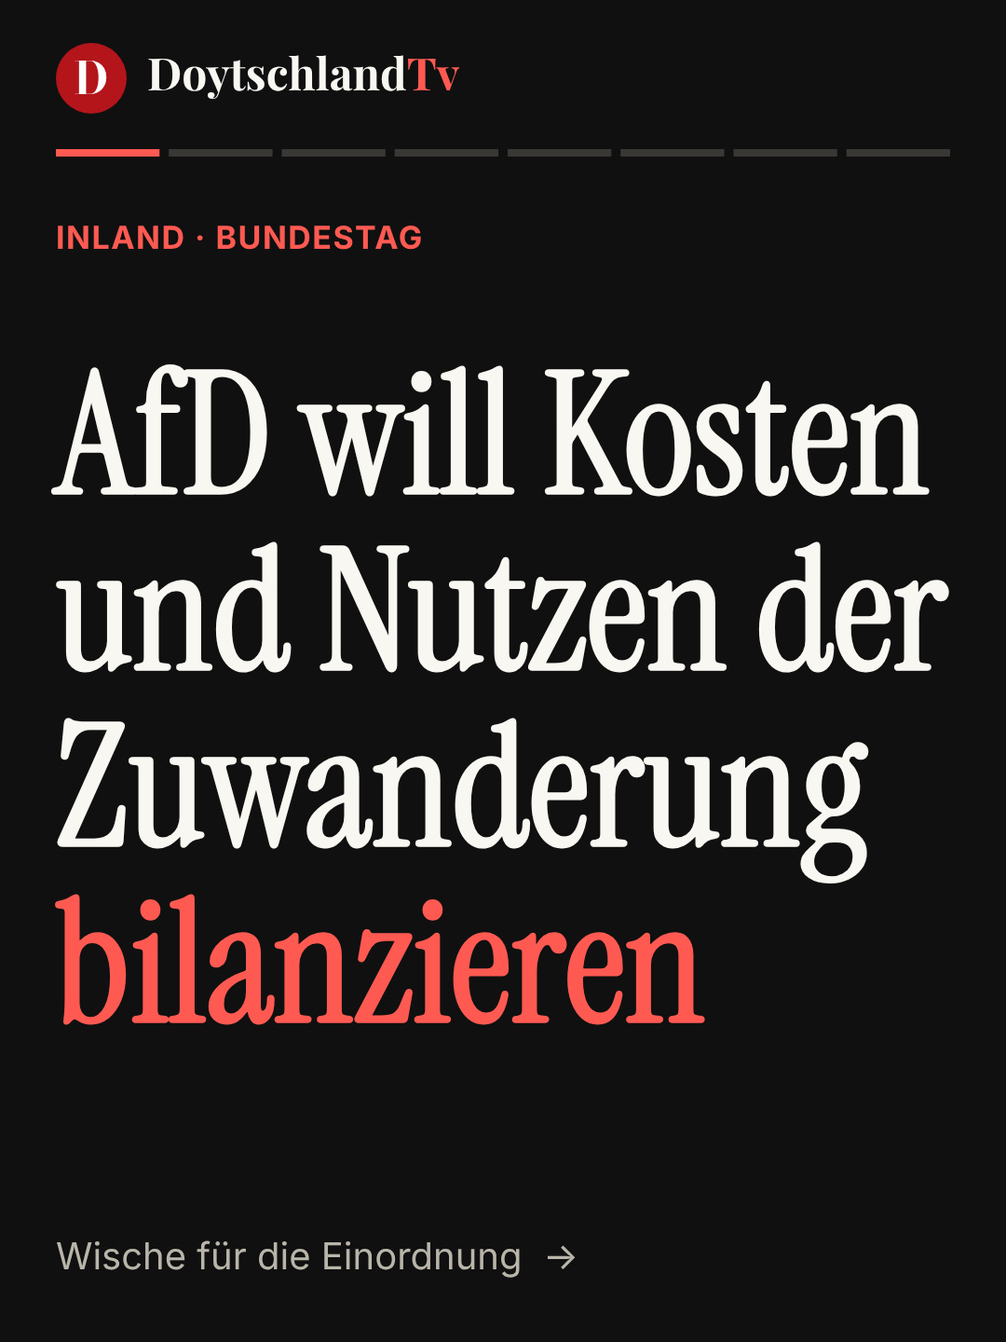
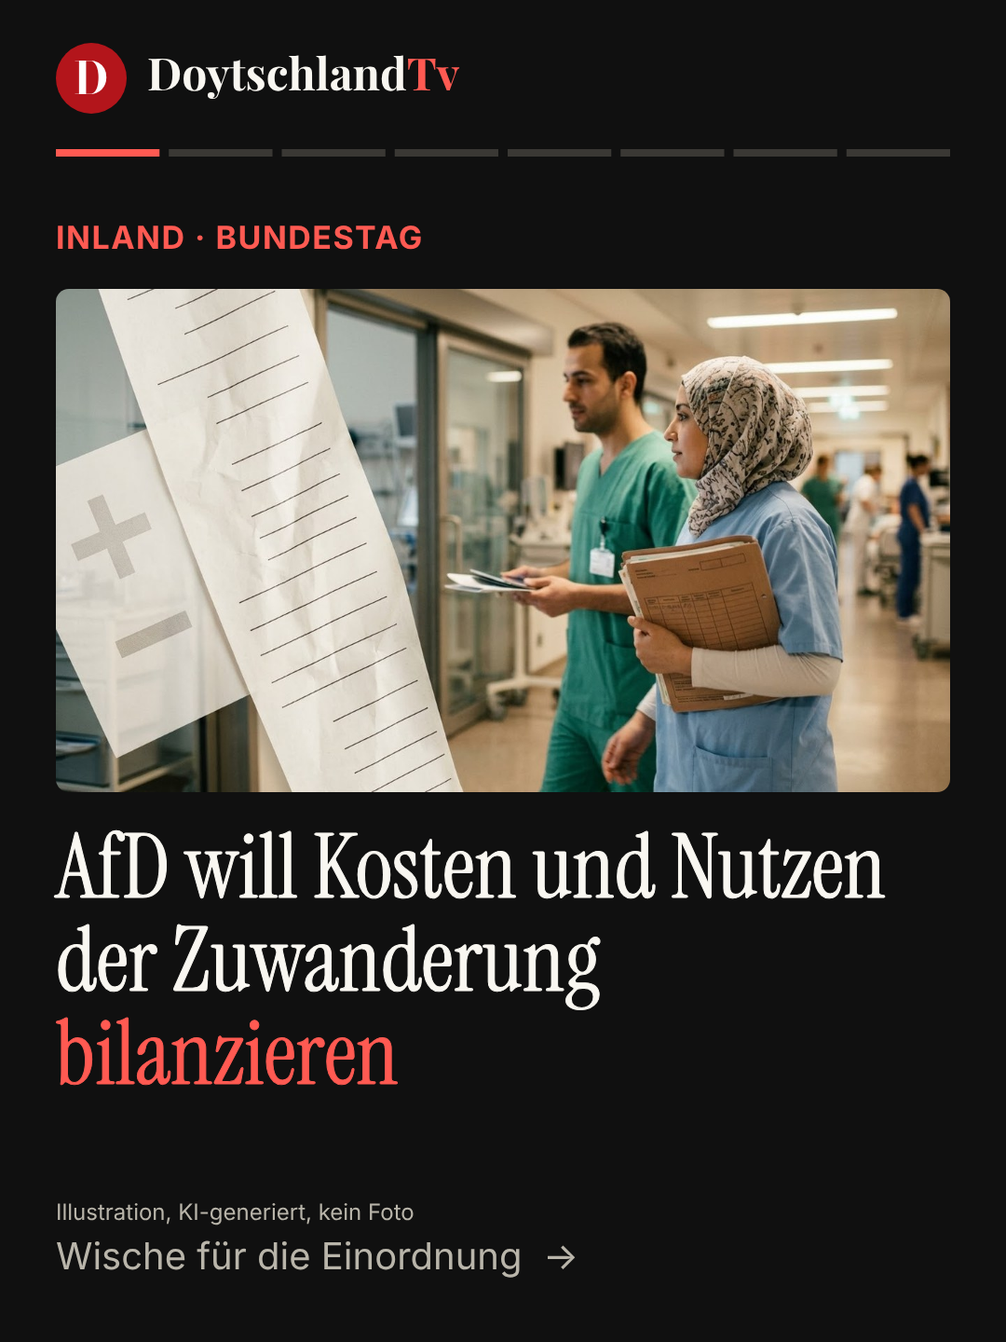
Migrations-Karussell: Titelbild
Claude-Session: https://claude.ai/code/session_01HADCkE2LZJHKQCUdz9XwMJ

diff --git a/beitrag/2026-10-19-afd-will-kosten-und-nutzen-der-zuwanderung-bilanzieren.html b/beitrag/2026-10-19-afd-will-kosten-und-nutzen-der-zuwanderung-bilanzieren.html
@@ -5,10 +5,10 @@
 <link rel="canonical" href="https://doytschtv.de/beitrag/2026-10-19-afd-will-kosten-und-nutzen-der-zuwanderung-bilanzieren.html">
 <meta name="robots" content="index,follow,max-image-preview:large">
 <meta property="og:type" content="article"><meta property="og:site_name" content="DoytschlandTv"><meta property="og:locale" content="de_DE">
-<meta property="og:title" content="AfD will Kosten und Nutzen der Zuwanderung bilanzieren"><meta property="og:description" content="Der Bundestag beriet am 15. Oktober erstmals den AfD-Antrag 21/8549. Er fordert ein Gesetz für regelmäßige, wissenschaftliche Bewertungen der Folgen von…"><meta property="og:url" content="https://doytschtv.de/beitrag/2026-10-19-afd-will-kosten-und-nutzen-der-zuwanderung-bilanzieren.html"><meta property="og:image" content="https://doytschtv.de/og-image.png">
-<meta name="twitter:card" content="summary_large_image"><meta name="twitter:title" content="AfD will Kosten und Nutzen der Zuwanderung bilanzieren"><meta name="twitter:description" content="Der Bundestag beriet am 15. Oktober erstmals den AfD-Antrag 21/8549. Er fordert ein Gesetz für regelmäßige, wissenschaftliche Bewertungen der Folgen von…"><meta name="twitter:image" content="https://doytschtv.de/og-image.png">
+<meta property="og:title" content="AfD will Kosten und Nutzen der Zuwanderung bilanzieren"><meta property="og:description" content="Der Bundestag beriet am 15. Oktober erstmals den AfD-Antrag 21/8549. Er fordert ein Gesetz für regelmäßige, wissenschaftliche Bewertungen der Folgen von…"><meta property="og:url" content="https://doytschtv.de/beitrag/2026-10-19-afd-will-kosten-und-nutzen-der-zuwanderung-bilanzieren.html"><meta property="og:image" content="https://doytschtv.de/titel-migration.jpg">
+<meta name="twitter:card" content="summary_large_image"><meta name="twitter:title" content="AfD will Kosten und Nutzen der Zuwanderung bilanzieren"><meta name="twitter:description" content="Der Bundestag beriet am 15. Oktober erstmals den AfD-Antrag 21/8549. Er fordert ein Gesetz für regelmäßige, wissenschaftliche Bewertungen der Folgen von…"><meta name="twitter:image" content="https://doytschtv.de/titel-migration.jpg">
 <meta name="theme-color" content="#0b0b10"><link rel="apple-touch-icon" href="/favicon.png">
-<script type="application/ld+json">{"@context": "https://schema.org", "@type": "NewsArticle", "headline": "AfD will Kosten und Nutzen der Zuwanderung bilanzieren", "description": "Der Bundestag beriet am 15. Oktober erstmals den AfD-Antrag 21/8549. Er fordert ein Gesetz für regelmäßige, wissenschaftliche Bewertungen der Folgen von…", "datePublished": "2026-10-19", "dateModified": "2026-10-19", "inLanguage": "de", "mainEntityOfPage": "https://doytschtv.de/beitrag/2026-10-19-afd-will-kosten-und-nutzen-der-zuwanderung-bilanzieren.html", "image": ["https://doytschtv.de/og-image.png"], "author": {"@type": "Organization", "name": "DoytschlandTv", "url": "https://doytschtv.de/"}, "publisher": {"@type": "Organization", "name": "DoytschlandTv", "logo": {"@type": "ImageObject", "url": "https://doytschtv.de/favicon.png"}}, "articleSection": "Nachrichten", "keywords": ["doytschlandtv", "aktuell", "bundestag", "afd", "migration", "faktencheck", "einordnung", "nachrichten"]}</script>
+<script type="application/ld+json">{"@context": "https://schema.org", "@type": "NewsArticle", "headline": "AfD will Kosten und Nutzen der Zuwanderung bilanzieren", "description": "Der Bundestag beriet am 15. Oktober erstmals den AfD-Antrag 21/8549. Er fordert ein Gesetz für regelmäßige, wissenschaftliche Bewertungen der Folgen von…", "datePublished": "2026-10-19", "dateModified": "2026-10-19", "inLanguage": "de", "mainEntityOfPage": "https://doytschtv.de/beitrag/2026-10-19-afd-will-kosten-und-nutzen-der-zuwanderung-bilanzieren.html", "image": ["https://doytschtv.de/titel-migration.jpg"], "author": {"@type": "Organization", "name": "DoytschlandTv", "url": "https://doytschtv.de/"}, "publisher": {"@type": "Organization", "name": "DoytschlandTv", "logo": {"@type": "ImageObject", "url": "https://doytschtv.de/favicon.png"}}, "articleSection": "Nachrichten", "keywords": ["doytschlandtv", "aktuell", "bundestag", "afd", "migration", "faktencheck", "einordnung", "nachrichten"]}</script>
 <link rel="stylesheet" href="/fonts.css"><link rel="stylesheet" href="/styles.css"><link rel="stylesheet" href="/briefing.css">
 <style>:root{color-scheme:light}body{margin:0}</style><link rel="icon" type="image/png" href="/favicon.png"></head><body>
-<header class="nav"><div class="wrap"><a class="brand" href="/index.html"><span class="mk" aria-hidden="true">D</span><img class="lg-l" src="/logo.png" alt="DoytschlandTv" width="136" height="25"><img class="lg-d" src="/logo-dark.png" alt="DoytschlandTv" width="136" height="25"></a><ul><li><a href="/briefing.html">Briefing</a></li><li><a href="/nachrichten.html" class=on>Nachrichten</a></li><li><a href="/dossiers.html">Dossiers</a></li><li><a href="/meinungen.html">Meinungen</a></li><li><a href="/erklaert.html">Erklärt</a></li><li><a href="/ueber-uns.html">Über uns</a></li></ul><span class="nav-so"><a href="https://www.instagram.com/doytschlandtv/" target="_blank" rel="noopener" aria-label="DoytschlandTv auf Instagram"><svg viewBox="0 0 24 24" fill="none" stroke="currentColor" stroke-width="2" stroke-linecap="round" aria-hidden="true"><rect x="3" y="3" width="18" height="18" rx="5"/><circle cx="12" cy="12" r="4.2"/><circle cx="17.3" cy="6.7" r=".6" fill="currentColor"/></svg></a><a href="https://www.tiktok.com/@doytschlandtv" target="_blank" rel="noopener" aria-label="DoytschlandTv auf TikTok"><svg viewBox="0 0 24 24" fill="currentColor" aria-hidden="true"><path d="M16.6 5.8A4.3 4.3 0 0 1 15.5 3h-3.1v12.4a2.6 2.6 0 1 1-1.8-2.5V9.7a5.7 5.7 0 1 0 4.9 5.7V9a7.3 7.3 0 0 0 4.3 1.4V7.3a4.3 4.3 0 0 1-3.2-1.5z"/></svg></a></span></div></header><main><div class="wrap"><article class="kol"><p class="b-eyebrow">Nachrichten · Inland · Bundestag</p><h1 class="mk-h1">AfD will Kosten und Nutzen der Zuwanderung bilanzieren</h1><p class="mk-meta">19. Oktober 2026</p><h2>Der Antrag</h2><p><strong>Bilanz per Gesetz.</strong></p><p>Der Bundestag beriet am 15. Oktober erstmals den AfD-Antrag 21/8549. Er fordert ein Gesetz für regelmäßige, wissenschaftliche Bewertungen der Folgen von Migration für die Sozialsysteme, jährliche Berichte an den Bundestag und eine Studie nach dänischem Vorbild. Der Antrag ging in die Ausschüsse.</p><h2>Die Zahl in der Debatte</h2><p><strong>400 Mrd. Euro</strong> Migrationskosten für 2016 bis 2025 nannte der AfD-Abgeordnete Goßner, gestützt auf einen Beitrag in der Welt. Allein im Bundesanteil von 242,5 Mrd. Euro stecken rund 72,9 Mrd. für Fluchtursachenbekämpfung im Ausland.</p><h2>Behauptung und Fakt</h2><p><strong>Was die Zahl misst:</strong> Brutto-Ausgaben von Bund, Ländern und Kommunen für Flucht und Migration, über zehn Jahre. Teile werden laut Prüfung doppelt gezählt.</p><p><strong>Was nicht darin steckt:</strong> Steuern, Sozialbeiträge, Konsum und Wertschöpfung. Die Summe ist keine Nettobelastung.</p><h2>Die Studienlage</h2><p><strong>Je nach Gruppe und Methode</strong></p><p>Eine vielzitierte niederländische Studie (IZA, Dezember 2024) sieht Arbeitsmigranten im Plus und Asylmigranten am stärksten im Minus, die Ergebnisse hängen von der Zuordnung öffentlicher Ausgaben ab. Für Deutschland rechnet Martin Werding (Bochum) mit einer Entlastung der Staatsfinanzen, Raffelhüschen (2024) mit höherer impliziter Verschuldung.</p><h2>Der Arbeitsmarkt</h2><p><strong>3,4 Mio.</strong> mehr Menschen im erwerbsfähigen Alter lebten 2024 unter Ausländern als 2014, bei Deutschen sank die Zahl um rund 3,9 Millionen. Seit 2024 kam das Beschäftigungswachstum laut Bundesagentur für Arbeit ausschließlich von ausländischen Beschäftigten.</p><h2>Unsere Meinung</h2><p>Zahlen zu Kosten und Integration gehören auf den Tisch, vollständig und mit den Einnahmen. Aber wer Menschen nach ihrem Nutzen bilanziert, macht aus Rechten eine Rechnung. Die Würde des Menschen ist unantastbar, auch dann, wenn jemand dem Staat nichts einbringt.</p><h2>Was meinst du?</h2><p><strong>Sollte der Staat regelmäßig bilanzieren, was Zuwanderung kostet und einbringt?</strong></p><h2>Quellen</h2><ul><li>Deutscher Bundestag, 15.10.2026</li><li>Bundestag, 15.10.2026; BT-Drs. 21/6280 (laut Politfacts)</li><li>Politfacts, Realitätscheck zur 400-Milliarden-Rechnung</li><li>IZA DP 17569; Mediendienst Integration, Werding 2025</li><li>Bundesagentur für Arbeit, Presseinfo Nr. 25</li></ul><p><a href="/nachrichten.html">Alle Karussells ansehen ›</a></p><p class="mk-meta">Fakten sind mit Quellen belegt, Meinung ist als „Unsere Meinung“ gekennzeichnet.</p></article></div></main><footer><div class="wrap"><span>© DoytschlandTv</span><span><a href="/impressum.html">Impressum</a> · <a href="/datenschutz.html">Datenschutz</a></span></div></footer></body></html>
+<header class="nav"><div class="wrap"><a class="brand" href="/index.html"><span class="mk" aria-hidden="true">D</span><img class="lg-l" src="/logo.png" alt="DoytschlandTv" width="136" height="25"><img class="lg-d" src="/logo-dark.png" alt="DoytschlandTv" width="136" height="25"></a><ul><li><a href="/briefing.html">Briefing</a></li><li><a href="/nachrichten.html" class=on>Nachrichten</a></li><li><a href="/dossiers.html">Dossiers</a></li><li><a href="/meinungen.html">Meinungen</a></li><li><a href="/erklaert.html">Erklärt</a></li><li><a href="/ueber-uns.html">Über uns</a></li></ul><span class="nav-so"><a href="https://www.instagram.com/doytschlandtv/" target="_blank" rel="noopener" aria-label="DoytschlandTv auf Instagram"><svg viewBox="0 0 24 24" fill="none" stroke="currentColor" stroke-width="2" stroke-linecap="round" aria-hidden="true"><rect x="3" y="3" width="18" height="18" rx="5"/><circle cx="12" cy="12" r="4.2"/><circle cx="17.3" cy="6.7" r=".6" fill="currentColor"/></svg></a><a href="https://www.tiktok.com/@doytschlandtv" target="_blank" rel="noopener" aria-label="DoytschlandTv auf TikTok"><svg viewBox="0 0 24 24" fill="currentColor" aria-hidden="true"><path d="M16.6 5.8A4.3 4.3 0 0 1 15.5 3h-3.1v12.4a2.6 2.6 0 1 1-1.8-2.5V9.7a5.7 5.7 0 1 0 4.9 5.7V9a7.3 7.3 0 0 0 4.3 1.4V7.3a4.3 4.3 0 0 1-3.2-1.5z"/></svg></a></span></div></header><main><div class="wrap"><article class="kol"><p class="b-eyebrow">Nachrichten · Inland · Bundestag</p><h1 class="mk-h1">AfD will Kosten und Nutzen der Zuwanderung bilanzieren</h1><p class="mk-meta">19. Oktober 2026</p><figure style="margin:1rem 0"><img src="/titel-migration.jpg" alt="AfD will Kosten und Nutzen der Zuwanderung bilanzieren" style="width:100%;height:auto;border-radius:1rem" loading="lazy"><figcaption class="mk-meta">Illustration, KI-generiert, kein Foto</figcaption></figure><h2>Der Antrag</h2><p><strong>Bilanz per Gesetz.</strong></p><p>Der Bundestag beriet am 15. Oktober erstmals den AfD-Antrag 21/8549. Er fordert ein Gesetz für regelmäßige, wissenschaftliche Bewertungen der Folgen von Migration für die Sozialsysteme, jährliche Berichte an den Bundestag und eine Studie nach dänischem Vorbild. Der Antrag ging in die Ausschüsse.</p><h2>Die Zahl in der Debatte</h2><p><strong>400 Mrd. Euro</strong> Migrationskosten für 2016 bis 2025 nannte der AfD-Abgeordnete Goßner, gestützt auf einen Beitrag in der Welt. Allein im Bundesanteil von 242,5 Mrd. Euro stecken rund 72,9 Mrd. für Fluchtursachenbekämpfung im Ausland.</p><h2>Behauptung und Fakt</h2><p><strong>Was die Zahl misst:</strong> Brutto-Ausgaben von Bund, Ländern und Kommunen für Flucht und Migration, über zehn Jahre. Teile werden laut Prüfung doppelt gezählt.</p><p><strong>Was nicht darin steckt:</strong> Steuern, Sozialbeiträge, Konsum und Wertschöpfung. Die Summe ist keine Nettobelastung.</p><h2>Die Studienlage</h2><p><strong>Je nach Gruppe und Methode</strong></p><p>Eine vielzitierte niederländische Studie (IZA, Dezember 2024) sieht Arbeitsmigranten im Plus und Asylmigranten am stärksten im Minus, die Ergebnisse hängen von der Zuordnung öffentlicher Ausgaben ab. Für Deutschland rechnet Martin Werding (Bochum) mit einer Entlastung der Staatsfinanzen, Raffelhüschen (2024) mit höherer impliziter Verschuldung.</p><h2>Der Arbeitsmarkt</h2><p><strong>3,4 Mio.</strong> mehr Menschen im erwerbsfähigen Alter lebten 2024 unter Ausländern als 2014, bei Deutschen sank die Zahl um rund 3,9 Millionen. Seit 2024 kam das Beschäftigungswachstum laut Bundesagentur für Arbeit ausschließlich von ausländischen Beschäftigten.</p><h2>Unsere Meinung</h2><p>Zahlen zu Kosten und Integration gehören auf den Tisch, vollständig und mit den Einnahmen. Aber wer Menschen nach ihrem Nutzen bilanziert, macht aus Rechten eine Rechnung. Die Würde des Menschen ist unantastbar, auch dann, wenn jemand dem Staat nichts einbringt.</p><h2>Was meinst du?</h2><p><strong>Sollte der Staat regelmäßig bilanzieren, was Zuwanderung kostet und einbringt?</strong></p><h2>Quellen</h2><ul><li>Deutscher Bundestag, 15.10.2026</li><li>Bundestag, 15.10.2026; BT-Drs. 21/6280 (laut Politfacts)</li><li>Politfacts, Realitätscheck zur 400-Milliarden-Rechnung</li><li>IZA DP 17569; Mediendienst Integration, Werding 2025</li><li>Bundesagentur für Arbeit, Presseinfo Nr. 25</li></ul><p><a href="/nachrichten.html">Alle Karussells ansehen ›</a></p><p class="mk-meta">Fakten sind mit Quellen belegt, Meinung ist als „Unsere Meinung“ gekennzeichnet.</p></article></div></main><footer><div class="wrap"><span>© DoytschlandTv</span><span><a href="/impressum.html">Impressum</a> · <a href="/datenschutz.html">Datenschutz</a></span></div></footer></body></html>

diff --git a/index.html b/index.html
@@ -64,7 +64,7 @@
         <h2 id="heute-h">Zuletzt im Blick</h2>
         <p id="heute-datum">19. Oktober 2026</p>
       </div>
-      <div class="hc-wrap"><button class="hc-b" id="hc-prev" type="button" aria-label="Zurück">&lsaquo;</button><div class="hc-rail" id="heute-liste" tabindex="0" aria-label="Schlagzeilen, seitlich wischen"><!--heute--><a class="hc" href="nachrichten.html#Merz%20l%C3%A4dt%20zum%20Investitionsgipfel%2C%20Nvidia-Chef%20Huang%20kommt"><span class="hc-t"><span class="k">Nachrichten · Mo., 19.10.</span><strong>Merz lädt zum Investitionsgipfel, Nvidia-Chef Huang kommt</strong></span></a><a class="hc" href="nachrichten.html#AfD%20will%20Kosten%20und%20Nutzen%20der%20Zuwanderung%20bilanzieren"><span class="hc-t"><span class="k">Nachrichten · Mo., 19.10.</span><strong>AfD will Kosten und Nutzen der Zuwanderung bilanzieren</strong></span></a><a class="hc has-img" href="nachrichten.html#Frankreich%3A%20Macron%20droht%20mit%20Demonstrationsverboten"><span class="hc-i"><img class="bg" src="titel-macron.jpg" alt="" loading="lazy" aria-hidden="true"><img class="fg" src="titel-macron.jpg" alt="" loading="lazy"></span><span class="hc-t"><span class="k">Nachrichten · Mo., 19.10.</span><strong>Frankreich: Macron droht mit Demonstrationsverboten</strong><small>Illustration, KI-generiert, kein Foto</small></span></a><a class="hc has-img" href="nachrichten.html#%E2%80%9EEuropa%20brennt%E2%80%9C%3F%20Was%20die%20viralen%20Bilder%20zeigen%20und%20was%20nicht"><span class="hc-i"><img class="bg" src="titel-europa.jpg" alt="" loading="lazy" aria-hidden="true"><img class="fg" src="titel-europa.jpg" alt="" loading="lazy"></span><span class="hc-t"><span class="k">Nachrichten · Mo., 19.10.</span><strong>„Europa brennt“? Was die viralen Bilder zeigen und was nicht</strong><small>Illustration, KI-generiert, kein Foto</small></span></a><a class="hc has-img" href="nachrichten.html#Morning%20Briefing%2C%20Montag%2C%2019.%20Oktober%202026"><span class="hc-i"><img class="bg" src="titel-morning-briefing.jpg" alt="" loading="lazy" aria-hidden="true"><img class="fg" src="titel-morning-briefing.jpg" alt="" loading="lazy"></span><span class="hc-t"><span class="k">Nachrichten · Mo., 19.10.</span><strong>Morning Briefing, Montag, 19. Oktober 2026</strong><small>Grafik, DoytschlandTv</small></span></a><a class="hc has-img" href="nachrichten.html#Trump%20setzt%20neue%20Russland-Sanktionen%20aus"><span class="hc-i"><img class="bg" src="titel-russland.jpg" alt="" loading="lazy" aria-hidden="true"><img class="fg" src="titel-russland.jpg" alt="" loading="lazy"></span><span class="hc-t"><span class="k">Nachrichten · Mo., 19.10.</span><strong>Trump setzt neue Russland-Sanktionen aus</strong><small>Illustration, KI-generiert, kein Foto</small></span></a><a class="hc has-img" href="nachrichten.html#Berlin%3A%20Linke%2C%20Gr%C3%BCne%20und%20SPD%20wollen%20gro%C3%9Fe%20Wohnungskonzerne%20vergesellschaften"><span class="hc-i"><img class="bg" src="titel-berlin.jpg" alt="" loading="lazy" aria-hidden="true"><img class="fg" src="titel-berlin.jpg" alt="" loading="lazy"></span><span class="hc-t"><span class="k">Nachrichten · Mo., 19.10.</span><strong>Berlin: Linke, Grüne und SPD wollen große Wohnungskonzerne vergesellschaften</strong><small>Illustration, KI-generiert, kein Foto</small></span></a><a class="hc" href="nachrichten.html#Morning%20Briefing%2C%20Sonntag%2C%2018.%20Oktober%202026"><span class="hc-t"><span class="k">Nachrichten · So., 18.10.</span><strong>Morning Briefing, Sonntag, 18. Oktober 2026</strong></span></a><a class="hc has-img" href="nachrichten.html#Frankreich%3A%20Landesweiter%20Protesttag%20endet%20mit%20schweren%20Krawallen"><span class="hc-i"><img class="bg" src="titel-frankreich.jpg" alt="" loading="lazy" aria-hidden="true"><img class="fg" src="titel-frankreich.jpg" alt="" loading="lazy"></span><span class="hc-t"><span class="k">Nachrichten · So., 18.10.</span><strong>Frankreich: Landesweiter Protesttag endet mit schweren Krawallen</strong><small>Illustration, KI-generiert, kein Foto</small></span></a><a class="hc has-img" href="nachrichten.html#WDR%20will%20sein%20Angebot%20bis%202030%20halbieren"><span class="hc-i"><img class="bg" src="titel-wdr.jpg" alt="" loading="lazy" aria-hidden="true"><img class="fg" src="titel-wdr.jpg" alt="" loading="lazy"></span><span class="hc-t"><span class="k">Nachrichten · So., 18.10.</span><strong>WDR will sein Angebot bis 2030 halbieren</strong><small>Illustration, KI-generiert, kein Foto</small></span></a><a class="hc has-img" href="briefing.html#2026-10-19"><span class="hc-i"><img class="bg" src="titel-briefing.jpg" alt="" loading="lazy" aria-hidden="true"><img class="fg" src="titel-briefing.jpg" alt="" loading="lazy"></span><span class="hc-t"><span class="k">Morning Briefing</span><strong>Frankreich: Nach dem Protesttag rund 2.000 Festnahmen und 4 weitere Themen</strong><small>Illustration, KI-generiert, kein Foto</small></span></a><a class="hc has-img" href="meinungen.html#2026-10-11"><span class="hc-i"><img class="bg" src="kolumne-christ.jpg" alt="" loading="lazy" aria-hidden="true"><img class="fg" src="kolumne-christ.jpg" alt="" loading="lazy"></span><span class="hc-t"><span class="k">Kolumne · Demokratie</span><strong>Selbstauskunft ist keine Kontrolle: Was der Fall Christ über Beratergremien zeigt</strong><small>Illustration, KI-generiert, kein Foto.</small></span></a><a class="hc" href="erklaert.html#schuldenbremse"><span class="hc-t"><span class="k">Erklärt</span><strong>Schuldenbremse und Sondervermögen</strong></span></a><!--/heute--></div><button class="hc-b nx" id="hc-next" type="button" aria-label="Weiter">&rsaquo;</button></div>
+      <div class="hc-wrap"><button class="hc-b" id="hc-prev" type="button" aria-label="Zurück">&lsaquo;</button><div class="hc-rail" id="heute-liste" tabindex="0" aria-label="Schlagzeilen, seitlich wischen"><!--heute--><a class="hc" href="nachrichten.html#Merz%20l%C3%A4dt%20zum%20Investitionsgipfel%2C%20Nvidia-Chef%20Huang%20kommt"><span class="hc-t"><span class="k">Nachrichten · Mo., 19.10.</span><strong>Merz lädt zum Investitionsgipfel, Nvidia-Chef Huang kommt</strong></span></a><a class="hc has-img" href="nachrichten.html#AfD%20will%20Kosten%20und%20Nutzen%20der%20Zuwanderung%20bilanzieren"><span class="hc-i"><img class="bg" src="titel-migration.jpg" alt="" loading="lazy" aria-hidden="true"><img class="fg" src="titel-migration.jpg" alt="" loading="lazy"></span><span class="hc-t"><span class="k">Nachrichten · Mo., 19.10.</span><strong>AfD will Kosten und Nutzen der Zuwanderung bilanzieren</strong><small>Illustration, KI-generiert, kein Foto</small></span></a><a class="hc has-img" href="nachrichten.html#Frankreich%3A%20Macron%20droht%20mit%20Demonstrationsverboten"><span class="hc-i"><img class="bg" src="titel-macron.jpg" alt="" loading="lazy" aria-hidden="true"><img class="fg" src="titel-macron.jpg" alt="" loading="lazy"></span><span class="hc-t"><span class="k">Nachrichten · Mo., 19.10.</span><strong>Frankreich: Macron droht mit Demonstrationsverboten</strong><small>Illustration, KI-generiert, kein Foto</small></span></a><a class="hc has-img" href="nachrichten.html#%E2%80%9EEuropa%20brennt%E2%80%9C%3F%20Was%20die%20viralen%20Bilder%20zeigen%20und%20was%20nicht"><span class="hc-i"><img class="bg" src="titel-europa.jpg" alt="" loading="lazy" aria-hidden="true"><img class="fg" src="titel-europa.jpg" alt="" loading="lazy"></span><span class="hc-t"><span class="k">Nachrichten · Mo., 19.10.</span><strong>„Europa brennt“? Was die viralen Bilder zeigen und was nicht</strong><small>Illustration, KI-generiert, kein Foto</small></span></a><a class="hc has-img" href="nachrichten.html#Morning%20Briefing%2C%20Montag%2C%2019.%20Oktober%202026"><span class="hc-i"><img class="bg" src="titel-morning-briefing.jpg" alt="" loading="lazy" aria-hidden="true"><img class="fg" src="titel-morning-briefing.jpg" alt="" loading="lazy"></span><span class="hc-t"><span class="k">Nachrichten · Mo., 19.10.</span><strong>Morning Briefing, Montag, 19. Oktober 2026</strong><small>Grafik, DoytschlandTv</small></span></a><a class="hc has-img" href="nachrichten.html#Trump%20setzt%20neue%20Russland-Sanktionen%20aus"><span class="hc-i"><img class="bg" src="titel-russland.jpg" alt="" loading="lazy" aria-hidden="true"><img class="fg" src="titel-russland.jpg" alt="" loading="lazy"></span><span class="hc-t"><span class="k">Nachrichten · Mo., 19.10.</span><strong>Trump setzt neue Russland-Sanktionen aus</strong><small>Illustration, KI-generiert, kein Foto</small></span></a><a class="hc has-img" href="nachrichten.html#Berlin%3A%20Linke%2C%20Gr%C3%BCne%20und%20SPD%20wollen%20gro%C3%9Fe%20Wohnungskonzerne%20vergesellschaften"><span class="hc-i"><img class="bg" src="titel-berlin.jpg" alt="" loading="lazy" aria-hidden="true"><img class="fg" src="titel-berlin.jpg" alt="" loading="lazy"></span><span class="hc-t"><span class="k">Nachrichten · Mo., 19.10.</span><strong>Berlin: Linke, Grüne und SPD wollen große Wohnungskonzerne vergesellschaften</strong><small>Illustration, KI-generiert, kein Foto</small></span></a><a class="hc" href="nachrichten.html#Morning%20Briefing%2C%20Sonntag%2C%2018.%20Oktober%202026"><span class="hc-t"><span class="k">Nachrichten · So., 18.10.</span><strong>Morning Briefing, Sonntag, 18. Oktober 2026</strong></span></a><a class="hc has-img" href="nachrichten.html#Frankreich%3A%20Landesweiter%20Protesttag%20endet%20mit%20schweren%20Krawallen"><span class="hc-i"><img class="bg" src="titel-frankreich.jpg" alt="" loading="lazy" aria-hidden="true"><img class="fg" src="titel-frankreich.jpg" alt="" loading="lazy"></span><span class="hc-t"><span class="k">Nachrichten · So., 18.10.</span><strong>Frankreich: Landesweiter Protesttag endet mit schweren Krawallen</strong><small>Illustration, KI-generiert, kein Foto</small></span></a><a class="hc has-img" href="nachrichten.html#WDR%20will%20sein%20Angebot%20bis%202030%20halbieren"><span class="hc-i"><img class="bg" src="titel-wdr.jpg" alt="" loading="lazy" aria-hidden="true"><img class="fg" src="titel-wdr.jpg" alt="" loading="lazy"></span><span class="hc-t"><span class="k">Nachrichten · So., 18.10.</span><strong>WDR will sein Angebot bis 2030 halbieren</strong><small>Illustration, KI-generiert, kein Foto</small></span></a><a class="hc has-img" href="briefing.html#2026-10-19"><span class="hc-i"><img class="bg" src="titel-briefing.jpg" alt="" loading="lazy" aria-hidden="true"><img class="fg" src="titel-briefing.jpg" alt="" loading="lazy"></span><span class="hc-t"><span class="k">Morning Briefing</span><strong>Frankreich: Nach dem Protesttag rund 2.000 Festnahmen und 4 weitere Themen</strong><small>Illustration, KI-generiert, kein Foto</small></span></a><a class="hc has-img" href="meinungen.html#2026-10-11"><span class="hc-i"><img class="bg" src="kolumne-christ.jpg" alt="" loading="lazy" aria-hidden="true"><img class="fg" src="kolumne-christ.jpg" alt="" loading="lazy"></span><span class="hc-t"><span class="k">Kolumne · Demokratie</span><strong>Selbstauskunft ist keine Kontrolle: Was der Fall Christ über Beratergremien zeigt</strong><small>Illustration, KI-generiert, kein Foto.</small></span></a><a class="hc" href="erklaert.html#schuldenbremse"><span class="hc-t"><span class="k">Erklärt</span><strong>Schuldenbremse und Sondervermögen</strong></span></a><!--/heute--></div><button class="hc-b nx" id="hc-next" type="button" aria-label="Weiter">&rsaquo;</button></div>
     </div>
   </section>
 

diff --git a/briefings.js b/briefings.js
@@ -420,7 +420,12 @@ window.BRIEFINGS = [
       "typ": "hook",
       "kicker": "Inland · Bundestag",
       "titel": "AfD will Kosten und Nutzen der Zuwanderung bilanzieren",
-      "rot": "bilanzieren"
+      "rot": "bilanzieren",
+      "bild": {
+       "url": "titel-migration.jpg",
+       "fokus": 0.5,
+       "unter": "Illustration, KI-generiert, kein Foto"
+      }
      },
      {
       "typ": "fakten",
